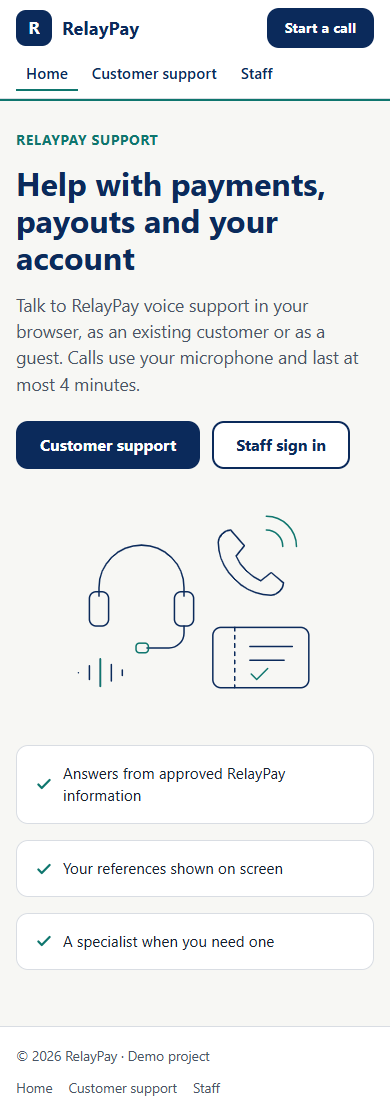
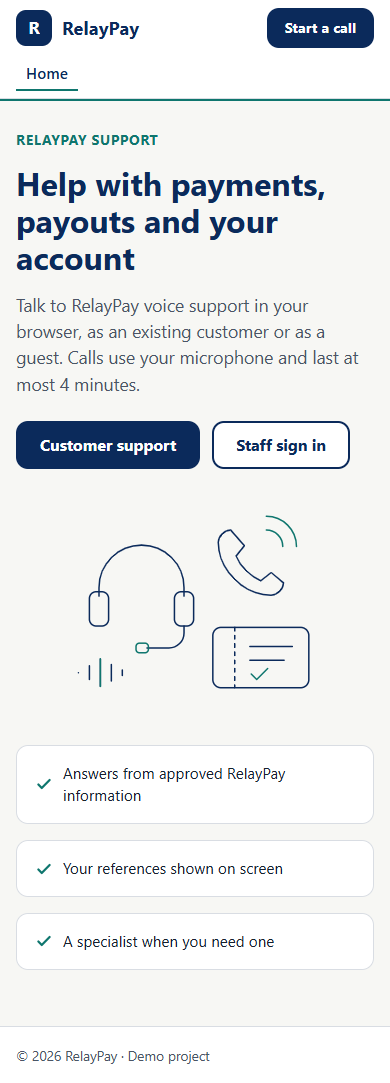
feat(D96 A): nav is just Home, footer is just the demo line, no back link on the staff login; screenshots retaken (1440/390, all pages)

diff --git a/backend/src/layout.test.ts b/backend/src/layout.test.ts
@@ -104,17 +104,21 @@ describe("site redesign: shared header and footer, one container (D95)", () => {
     const home = siteHeader("home"), support = siteHeader("support"), staff = siteHeader("staff");
     assert.match(home, /<a class="wordmark" href="\/"[^>]*><span class="logo" aria-hidden="true">R<\/span><span class="wordmark-text">RelayPay<\/span><\/a>/);
     assert.match(home, /<a href="\/" aria-current="page">Home<\/a>/);
-    assert.match(support, /<a href="\/support" aria-current="page">Customer support<\/a>/);
-    assert.match(staff, /<a href="\/staff" aria-current="page">Staff<\/a>/);
+    // D96: the nav is only Home; it is the current page only on /.
+    for (const h of [home, support, staff]) {
+      assert.equal((h.match(/<li><a /g) ?? []).length, 1);
+      assert.ok(!h.includes(">Customer support</a>") && !h.includes(">Staff</a>"));
+    }
+    assert.ok(!support.includes("aria-current") && !staff.includes("aria-current"));
     for (const h of [home, support]) assert.match(h, /<a class="button primary small header-cta" href="\/support">Start a call<\/a>/);
     assert.ok(!staff.includes("Start a call"));
     assert.match(staff, /<div id="account" class="header-account" hidden><span>Signed in as <strong id="account-email"><\/strong><\/span>/);
     assert.equal((home.match(/aria-current/g) ?? []).length, 1);
   });
-  it("footer: the demo line and the nav links", () => {
+  it("footer: only the demo line (D96)", () => {
     const f = siteFooter();
     assert.match(f, /© 2026 RelayPay · Demo project/);
-    for (const href of ['href="/"', 'href="/support"', 'href="/staff"']) assert.ok(f.includes(href), href);
+    assert.ok(!f.includes("<a ") && !f.includes("<nav"));
   });
   it("served pages are rendered (the header is in the response, not a placeholder)", async () => {
     const { server, base } = await serve();
@@ -162,9 +166,10 @@ describe("support and staff page structure (D95)", () => {
     assert.match(html, /<div class="page-head">\s*<p class="eyebrow">Customer support<\/p>\s*<h1 id="title">RelayPay voice support<\/h1>/);
     assert.ok(html.indexOf('class="page-head"') < html.indexOf('class="support-grid"'));
   });
-  it("/staff: a centred login card with a back link; the dashboard title area; the 3/2/1 grid", () => {
+  it("/staff: a centred login card (no back link: Home is in the header, D96); the dashboard title area; the 3/2/1 grid", () => {
     const html = read("staff.html");
-    assert.match(html, /<section id="login" class="login-wrap"[\s\S]*<div class="login-card">\s*<h1 id="login-title">Staff sign in<\/h1>[\s\S]*<\/div>\s*<p class="back-link"><a href="\/">← Back to home<\/a><\/p>/);
+    assert.match(html, /<section id="login" class="login-wrap"[\s\S]*<div class="login-card">\s*<h1 id="login-title">Staff sign in<\/h1>/);
+    assert.ok(!html.includes("Back to home"));
     assert.match(html, /<p class="eyebrow">Staff<\/p>\s*<h1 id="title">Raised tickets and scheduled callbacks<\/h1>\s*<p class="lede">Read-only.<\/p>/);
     const css = read("app.css");
     assert.match(css, /\.login-card \{ width: 100%; max-width: 420px;/);

diff --git a/backend/src/web.ts b/backend/src/web.ts
@@ -81,10 +81,9 @@ export const SECURITY_HEADERS: Record<string, string> = {
  * first served (then cached). Full-width bar; contents in the same centred container as the page.
  */
 export type SitePage = "home" | "support" | "staff";
+// D96: the header nav is just Home (Customer support and Staff are reached from the landing page).
 const NAV: Array<{ page: SitePage; href: string; label: string }> = [
   { page: "home", href: "/", label: "Home" },
-  { page: "support", href: "/support", label: "Customer support" },
-  { page: "staff", href: "/staff", label: "Staff" },
 ];
 const navLinks = (current: SitePage | null) =>
   NAV.map((n) => `<li><a href="${n.href}"${n.page === current ? ' aria-current="page"' : ""}>${n.label}</a></li>`).join("");
@@ -105,11 +104,11 @@ export function siteHeader(page: SitePage): string {
 </header>`;
 }
 
+/** D96: the footer is only the demo line. */
 export function siteFooter(): string {
   return `<footer class="site-footer">
   <div class="container footer-inner">
     <p>© 2026 RelayPay · Demo project</p>
-    <nav aria-label="Footer"><ul>${navLinks(null)}</ul></nav>
   </div>
 </footer>`;
 }

diff --git a/backend/public/staff.html b/backend/public/staff.html
@@ -29,7 +29,6 @@
           <button id="login-submit" type="submit" class="button primary">Log in</button>
         </form>
       </div>
-      <p class="back-link"><a href="/">← Back to home</a></p>
     </section>
 
     <section id="dashboard" class="dashboard" aria-labelledby="title" hidden>
